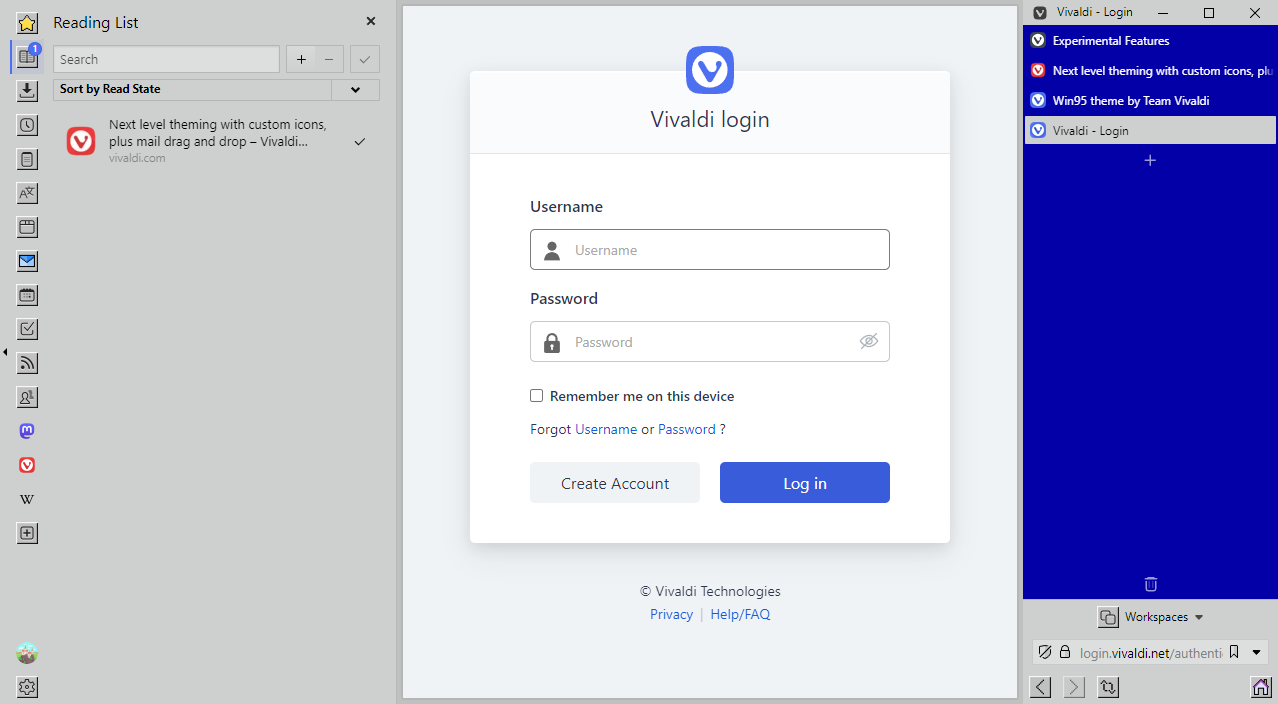
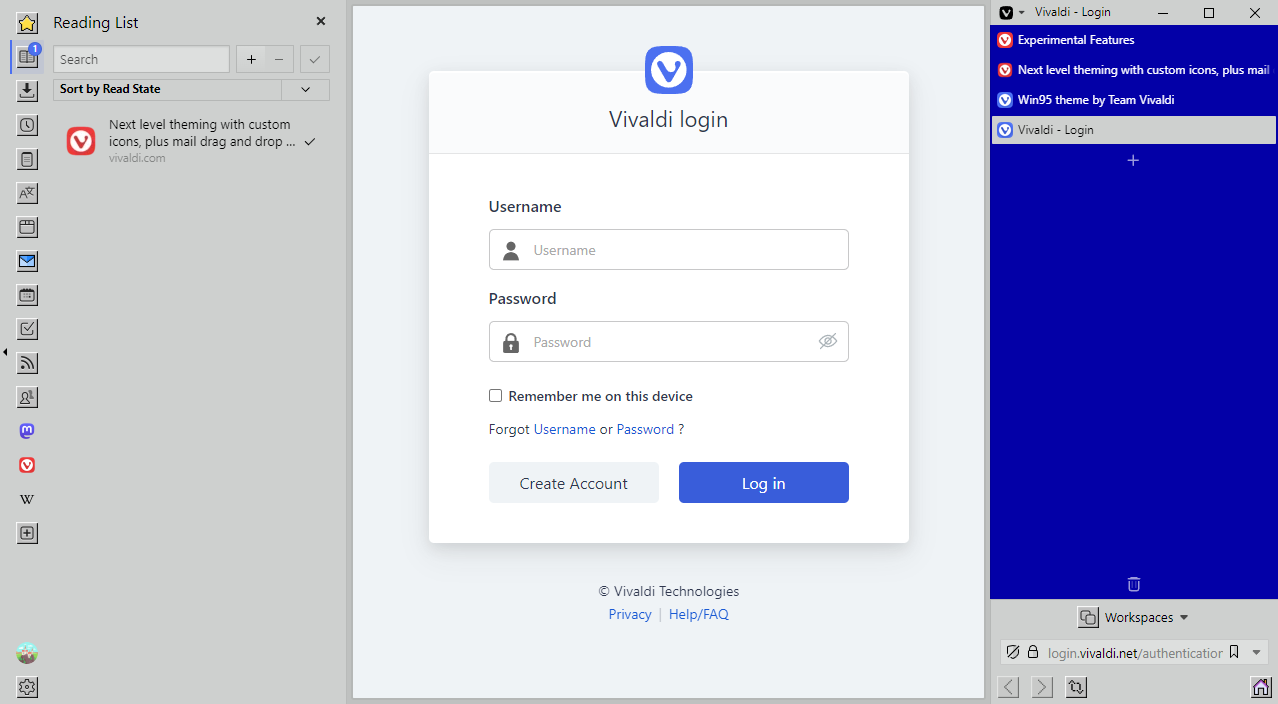
Finalize version 1.3.0:
Increment minor version number.
Update documentation and demo images.
Add v1.3.0 changelog and new demo images.

diff --git a/vivaldi-vh.scss b/vivaldi-vh.scss
@@ -1,6 +1,6 @@
 /*
   Vivaldi VH
-  Version: 1.2.2
+  Version: 1.3.0
   Target Vivaldi Browser versions: 6.2
 
   Vivaldi VH is a CSS modification for Vivaldi Browser that grants your webpages the entire vertical space of the browser window by moving the rest of the UI into a separate column.

diff --git a/documentation/command-chain-flags.md b/documentation/command-chain-flags.md
@@ -10,24 +10,13 @@ You can set up Command Chain Flags for specific features by following the steps 
 2. Give this command chain a name that matches the flag you would like to apply, for example `vvh-disable-addressfield-extend-on-focus`.
 3. [Open the Toolbar Editor](https://help.vivaldi.com/desktop/appearance-customization/edit-toolbars/#Customize_toolbars) and select "Command Chains" from the dropdown. Grab your created Command Chain and drag it into one of your toolbars.
 
-## Precedence Rules
-
-It is currently possible to have flags set that enable and disable the same feature at the same time. Additionally, each feature has a default state according to what I think is the best default experience for Vivaldi VH.
-
-For each flag, the following precedence rules apply:
-
-1. The `disable` flag always disables a feature.
-2. The `enable` flag enables a feature if the `disable` flag is not set.
-3. The default state of a feature applies if neither flag is set.
-
 ## Available Flags
 
 ### Grow width of address bar components to occupy free space
 
 *Enabled by default.*
 
-`vvh-enable-addressbar-universal-flex-grow` \
-`vvh-disable-addressbar-universal-flex-grow`
+To disable: `vvh-disable-addressbar-universal-flex-grow`
 
 Individual components in the address bar are distributed evenly across the width of each row. If the title bar is shown, this can also grow their click area.
 
@@ -37,8 +26,7 @@ Additionally, flexible spacers inside the address bar are hidden.
 
 *Enabled by default.*
 
-`vvh-enable-statusbar-universal-flex-grow` \
-`vvh-disable-statusbar-universal-flex-grow`
+To disable: `vvh-disable-statusbar-universal-flex-grow`
 
 Individual components in the status bar are distributed evenly across the width of each row. This can also grow their click area.
 
@@ -48,8 +36,7 @@ Additionally, flexible spacers inside the status bar are hidden.
 
 *Enabled by default.*
 
-`vvh-enable-webpage-permanent-padding` \
-`vvh-disable-webpage-permanent-padding`
+To disable: `vvh-disable-webpage-permanent-padding`
 
 The padding around webpages that normally only appears when tab tiling is active is permanently visible.
 
@@ -57,17 +44,15 @@ The padding around webpages that normally only appears when tab tiling is active
 
 *Enabled by default.*
 
-`vvh-enable-addressfield-extend-on-focus` \
-`vvh-disable-addressfield-extend-on-focus`
+To disable: `vvh-disable-addressfield-extend-on-focus`
 
 The address field extends beyond the Pillar width when the input area is in focus.
 
 ### Extend search field width when editing input
 
-*Enabled by default.*
+*Disabled by default.*
 
-`vvh-enable-searchfield-extend-on-focus` \
-`vvh-disable-searchfield-extend-on-focus`
+To enable: `vvh-enable-searchfield-extend-on-focus`
 
 The search field extends beyond the Pillar width when the input area is in focus.
 
@@ -75,16 +60,24 @@ The search field extends beyond the Pillar width when the input area is in focus
 
 *Disabled by default.*
 
-`vvh-enable-extensions-invert-toggle-position` \
-`vvh-disable-extensions-invert-toggle-position`
+To enable: `vvh-enable-extensions-invert-toggle-position`
 
 The button that toggles the visibility of hidden extensions is placed to the other side of the extensions grid.
 
-### *(Coming soon!)* Panel at full height
+### Incorporate panel into Pillar
 
 *Disabled by default.*
 
-`vvh-enable-panel-full-height` \
-`vvh-disable-panel-full-height`
+To enable: `vvh-enable-panel-in-pillar`
 
-When the panel is on the same side as the tab bar, it is no longer incorporated into the Pillar, but instead positioned at full height between the Pillar and the webpage.
+When the panel is on the same side as the tab bar, it is incorporated into the Pillar between the window edge and the tab bar.
+
+## Precedence Rules
+
+It is currently possible to have flags set that `enable` and `disable` the same feature at the same time. Additionally, each feature has a default state according to what I think is the best default experience for Vivaldi VH.
+
+For each flag, the following precedence rules apply:
+
+1. The `disable` flag always disables a feature.
+2. The `enable` flag enables a feature if the `disable` flag is not set.
+3. The default state of a feature applies if neither flag is set.

diff --git a/documentation/changelog.md b/documentation/changelog.md
@@ -1,5 +1,40 @@
 # Changelog
 
+## v1.3.0 (2023-10-16)
+
+### Changes
+
+- The panel is no longer incorporated into the Pillar by default.
+  - *This will surprise some people who update their Vivaldi VH installation, and because of that this was not an easy choice to make.* \
+ \
+*On a newly created browser profile, panels do not float by default. This means that with Vivaldi VH active, if the panel is on the same side as the Pillar, opening a panel will stretch the Pillar, which is arguably a more jarring experience than if it just squished the webpage. Thus the decision has been made to no longer incorporate the panel into the Pillar by default.* \
+ \
+*The previous behaviour can be restored with a Command Chain Flag.*
+
+- The Command Chain Flag `vvh-enable-panel-in-pillar` is now available, which restores the previous panel behaviour.
+- The search field can now be resized, and will no longer extend on focus by default.
+  - *I actually didn't know that the search field could be resized. That capability has been restored and you can now resize it in Vivaldi VH just as you would normally by grabbing the hidden handle at its left edge.* \
+ \
+*As a result, it will no longer extend on focus by default, since that would displace toolbar components on toolbars where the search field does not take up an entire row. This can be reenabled by placing the Command Chain Flag `vvh-enable-searchfield-extend-on-focus`.*
+- Borders have been added, some of which were erroneously missing, to distinguish different parts of the UI, such as the address bar and bookmarks bar.
+- Documentation and demo images have been updated. New demo images have been added.
+- Unused source code has been removed.
+
+### Fixes
+
+- Fixed the margins on the Mail Search toolbar component.
+- The selection indicator on the current tab is no longer invisible. Thanks [ppgm](https://forum.vivaldi.net/user/ppgm) for reporting this!
+- When the menu button is located in the address bar and the chosen Menu Icon Style is "Menu Icon", it will no longer take up more space than necessary.
+- Cleaned up margins of the menu button in the address bar.
+- Fixed cases of visual artifacts on a transparent tab bar.
+- Fixed a case where the panel wouldn't cover the address bar correctly.
+- Fixed cases where an address field or search field inside the panel would disappear if clicked on.
+
+### Known Issues
+
+- When the panel does not touch the left or right window edge, panel resizing will behave weirdly, but still be fully functional.
+- When the panel does not touch the left or right window edge, the "Add Web Panel" popup will be slightly misplaced, but still fully functional.
+
 ## v1.2.2 (2023-08-31)
 
 ### Fixes

diff --git a/documentation/roadmap.md b/documentation/roadmap.md
@@ -6,20 +6,18 @@ This document contains all information regarding future changes and known issues
 
 The following will be added to Vivaldi VH in the future, in no particular order:
 
-- [Panel at full height behind a Command Chain Flag](./command-chain-flags.md#coming-soon-panel-at-full-height).
+- Allow activation of Vivaldi VH when "Show Tab Bar" is unchecked. The panel will then need to be enabled, as it takes its place.
 - Allow activation of Vivaldi VH when "Show Address Bar" is unchecked.
-- A "Zen Mode" where the webpage takes up the entire browser window, with the Pillar and panel floating in from the sides on demand
+- A Command Chain Flag to let the title bar span the entire window width.
+- A "Zen Mode" where the webpage takes up the entire browser window, with the Pillar and panel floating in from the sides on demand.
 - One-time-use JS modification that adds all available Command Chain Flags as Command Chains.
-- Ongoing updates to maintain compatibility with the latest stable Version of Vivaldi Browser.
+- Ongoing updates to maintain compatibility with the latest stable version of Vivaldi Browser.
 
 ## Considerations
 
 The following are being considered to be added to Vivaldi VH, but have blockers that need to be resolved first:
 
-- Allow activation of Vivaldi VH when "Show Tab Bar" is unchecked. The Pillar will be constructed using the panel instead. When the tab bar is not shown, setting panels to be non-floating will be mandated for Vivaldi VH to be active. Since this introduces an additional mandated setting, this will be behind a Command Chain Flag and disabled by default.
-  - How should Vivaldi VH behave when the panel is closed? Gaps in the pillar cause erroneous behaviour across the board, and disabling Vivaldi VH entirely whenver a panel is closed would make for a jarring experience. Assume that there is no tab bar.
-
-I appreciate any opinions that might help solve the listed issues!
+- None at the moment!
 
 ## Requesting new features
 
@@ -36,3 +34,5 @@ When developing Vivaldi VH, I try to hold myself to these values, listed in orde
 - Loading a webpage may stretch the Pillar if it contains an address field that's narrower than approx. `254px`.
 - Toolbar components cannot be removed by dragging them to the area between the toolbar and toolbar editor window.
 - Toolbar component styling is partly applied to demo toolbars inside the toolbar editor window.
+- When the panel does not touch the left or right window edge, panel resizing will behave in unexpected ways, but still be fully functional.
+- When the panel does not touch the left or right window edge, the "Add Web Panel" popup will be slightly misplaced, but still fully functional.

diff --git a/README.md b/README.md
@@ -9,7 +9,7 @@ Vivaldi VH is a CSS modification for [Vivaldi Browser](https://vivaldi.com) that
 - Adapts to any browser settings! If you move the tab bar to the right, so will the Pillar!
 - Customize the look and feel of Vivaldi VH right in the browser with [Command Chain Flags](./documentation/command-chain-flags.md) and [Command Chain Utilities](/documentation/command-chain-utilities.md)!
 
-## Usage Notes
+## Requirements
 
 Vivaldi VH will only be applied when all of the following are true:
 
@@ -41,6 +41,10 @@ Vivaldi VH will be updated regularly to ensure compatibility with the latest sta
 ![Vivaldi VH demo screenshot 3](documentation/images/demo-3.png)
 
 ![Vivaldi VH demo screenshot 4](documentation/images/demo-4.png)
+
+![Vivaldi VH demo screenshot 5](documentation/images/demo-5.png)
+
+![Vivaldi VH demo screenshot 6](documentation/images/demo-6.png)
 
 ---
 

diff --git a/documentation/command-chain-utilities.md b/documentation/command-chain-utilities.md
@@ -16,4 +16,8 @@ You can set up Command Chain Utilities for specific features by following the st
 
 `vvh-insert-linebreak`
 
-This can be placed between toolbar components that would normally fit on the same row to move them to separate rows.
+When placed in a toolbar, this will move all toolbar components after it to a new row.
+
+Special interactions:
+
+- If a Toolbar Linebreak is placed immediately before and after a mail search toolbar component, that search bar will grow to take up the full width of the toolbar that contains it.
